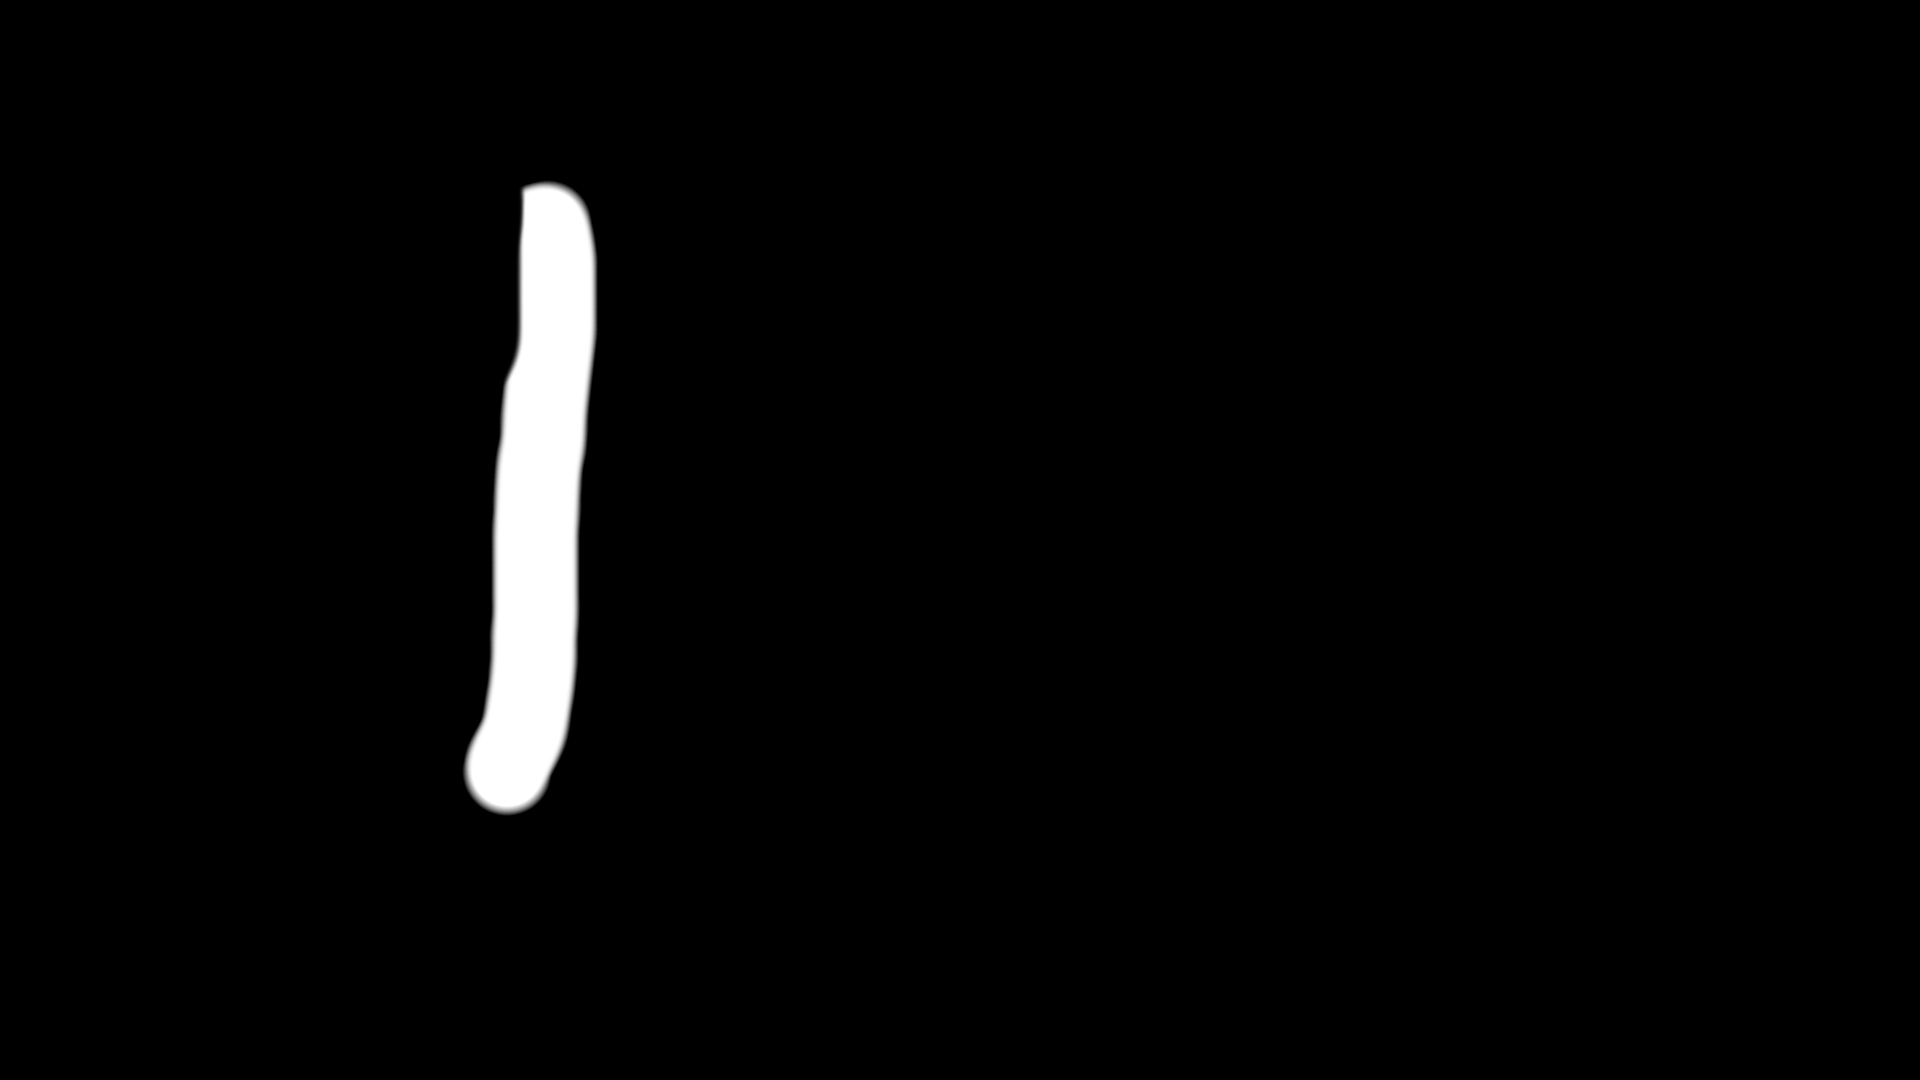
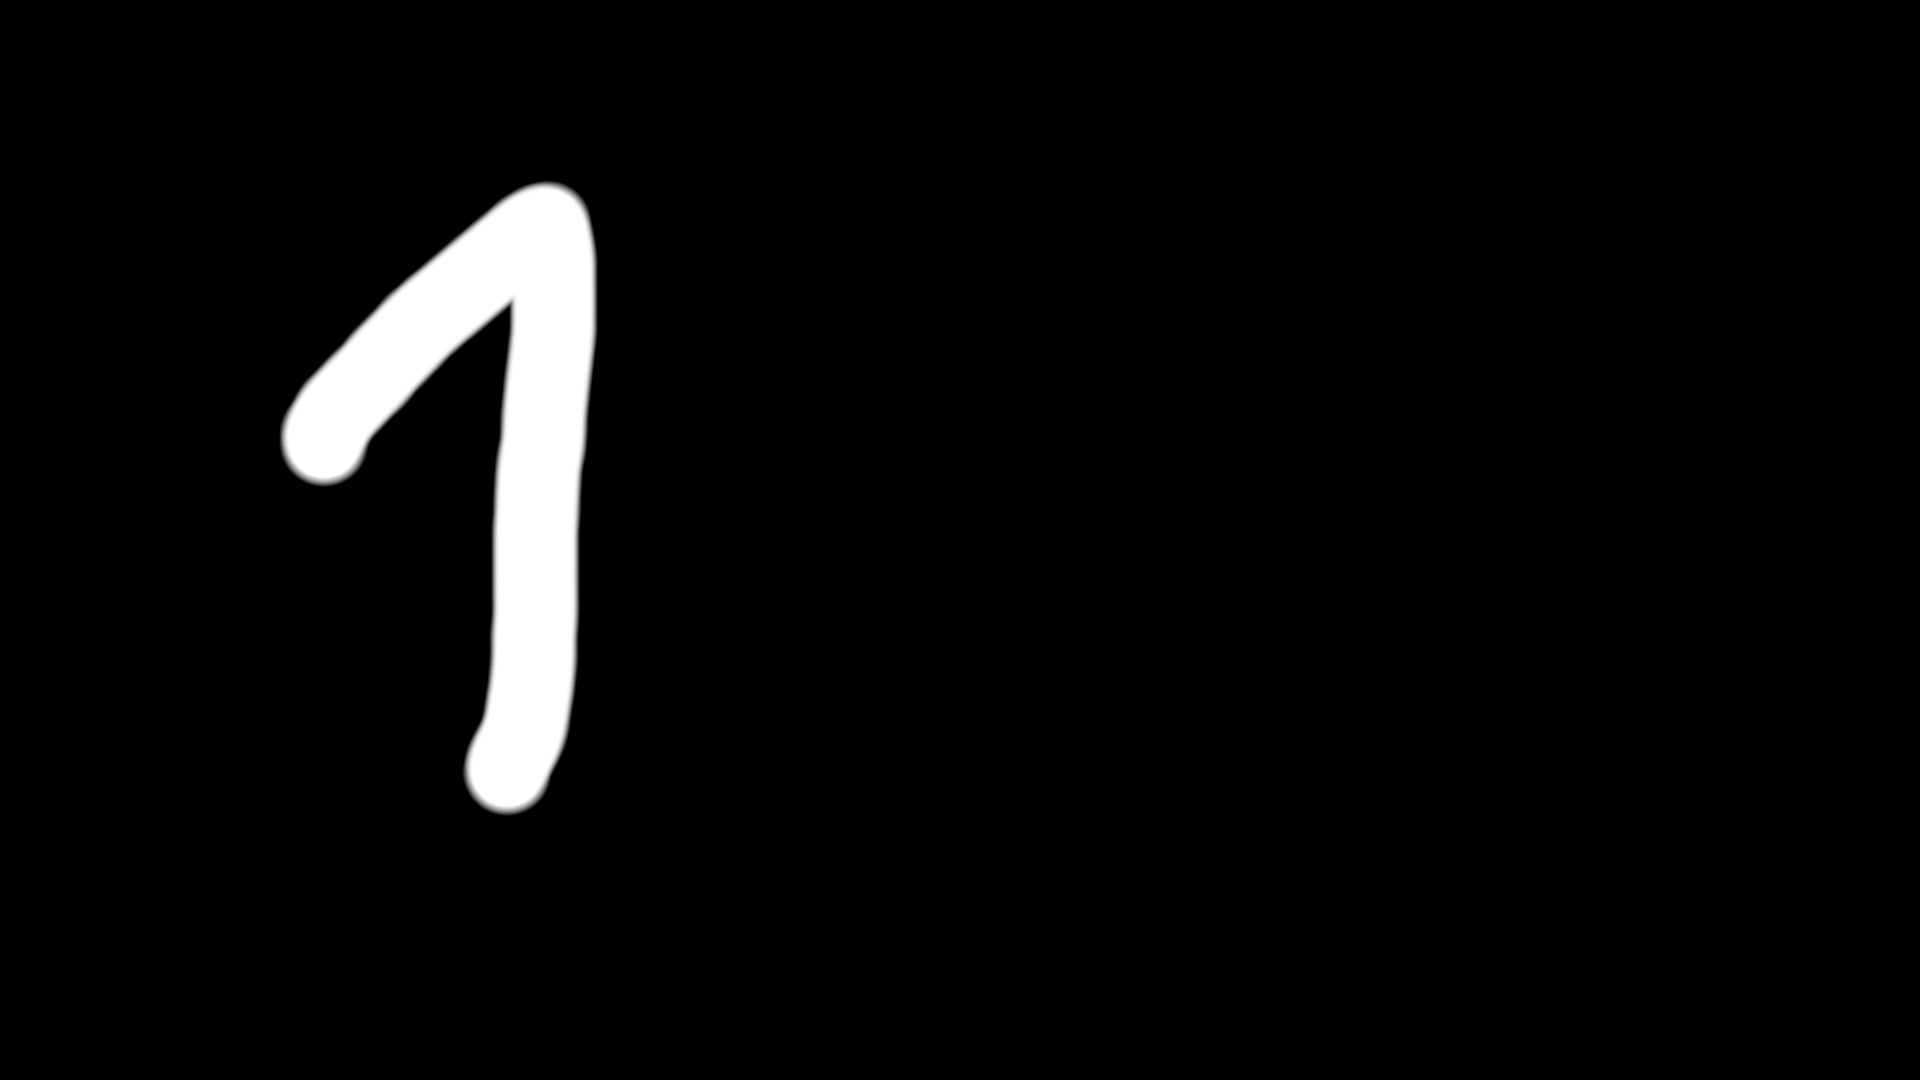
take screenschoot and send to backend

Changed region(s): [[0.125, 0.1833, 0.2812, 0.4583]]

diff --git a/front/app/routes/_index.tsx b/front/app/routes/_index.tsx
@@ -1,4 +1,4 @@
-import { useState,useRef, useEffect } from "react";
+import { useState, useRef, useEffect } from "react";
 import type { MetaFunction } from "@remix-run/node";
 
 export const meta: MetaFunction = () => {
@@ -8,16 +8,21 @@ export const meta: MetaFunction = () => {
   ];
 };
 
+const devBack = "http://127.0.0.1:5000";
+
 export default function Index() {
   const [data, setData] = useState(null);
   const [imagePath, setImagePath] = useState("");
   const [timestamp, setTimestamp] = useState(Date.now());
   const videoRef = useRef<HTMLVideoElement>(null);
+  const canvasRef = useRef<HTMLCanvasElement>(null);
 
   useEffect(() => {
     const startVideo = async () => {
       try {
-        const stream = await navigator.mediaDevices.getUserMedia({ video: true });
+        const stream = await navigator.mediaDevices.getUserMedia({
+          video: true,
+        });
         if (videoRef.current) {
           videoRef.current.srcObject = stream;
         }
@@ -32,7 +37,7 @@ export default function Index() {
   const handleSubmit = async (event: React.FormEvent) => {
     event.preventDefault();
     try {
-      const response = await fetch("http://127.0.0.1:5000/reconize", {
+      const response = await fetch(devBack + "/reconize", {
         method: "POST",
         headers: {
           "Content-Type": "application/json",
@@ -47,6 +52,43 @@ export default function Index() {
       setTimestamp(Date.now()); // Mettre à jour le timestamp pour recharger les images
     } catch (error) {
       console.error("Erreur lors de la récupération des données:", error);
+    }
+  };
+
+  const captureImage = () => {
+    if (videoRef.current && canvasRef.current) {
+      const context = canvasRef.current.getContext("2d");
+      if (context) {
+        context.drawImage(
+          videoRef.current,
+          0,
+          0,
+          canvasRef.current.width,
+          canvasRef.current.height
+        );
+        canvasRef.current.toBlob(async (blob) => {
+          if (blob) {
+            const formData = new FormData();
+            formData.append("image", blob, "captured_image.png");
+
+            try {
+              const response = await fetch(devBack + "/upload", {
+                method: "POST",
+                body: formData,
+              });
+
+              if (response.ok) {
+                console.log("Image uploaded successfully");
+                console.log(JSON.stringify(data, null, 2));
+              } else {
+                console.error("Failed to upload image");
+              }
+            } catch (error) {
+              console.error("Error uploading image:", error);
+            }
+          }
+        }, "image/png");
+      }
     }
   };
 
@@ -91,6 +133,18 @@ export default function Index() {
       )}
       <div className="mt-4">
         <video ref={videoRef} autoPlay className="border p-2 w-full"></video>
+        <button
+          onClick={captureImage}
+          className="bg-blue-500 text-white p-2 rounded mt-2"
+        >
+          Prendre une photo
+        </button>
+        <canvas
+          ref={canvasRef}
+          style={{ display: "none" }}
+          width="640"
+          height="480"
+        ></canvas>
       </div>
     </div>
   );

diff --git a/backend/app.py b/backend/app.py
@@ -4,13 +4,32 @@ from function import *
 import json
 import shutil
 import numpy as np
+import os
 
 app = Flask(__name__)
 CORS(app)  # Ajoutez cette ligne pour permettre les requêtes CORS
 
+UPLOAD_FOLDER = './front/public/data'
+if not os.path.exists(UPLOAD_FOLDER):
+    os.makedirs(UPLOAD_FOLDER)
+
 @app.route('/')
 def home():
     return jsonify("Hello, Flask!")
+
+@app.route('/upload', methods=['POST'])
+def upload_image():
+    if 'image' not in request.files:
+        return jsonify({"error": "No image part"}), 400
+
+    file = request.files['image']
+    if file.filename == '':
+        return jsonify({"error": "No selected file"}), 400
+
+    file_path = os.path.join(UPLOAD_FOLDER, file.filename)
+    file.save(file_path)
+    return jsonify({"message": "Image uploaded successfully", "file_path": file_path}), 200
+
 
 @app.route('/reconize', methods=['POST'])
 def reconize():
